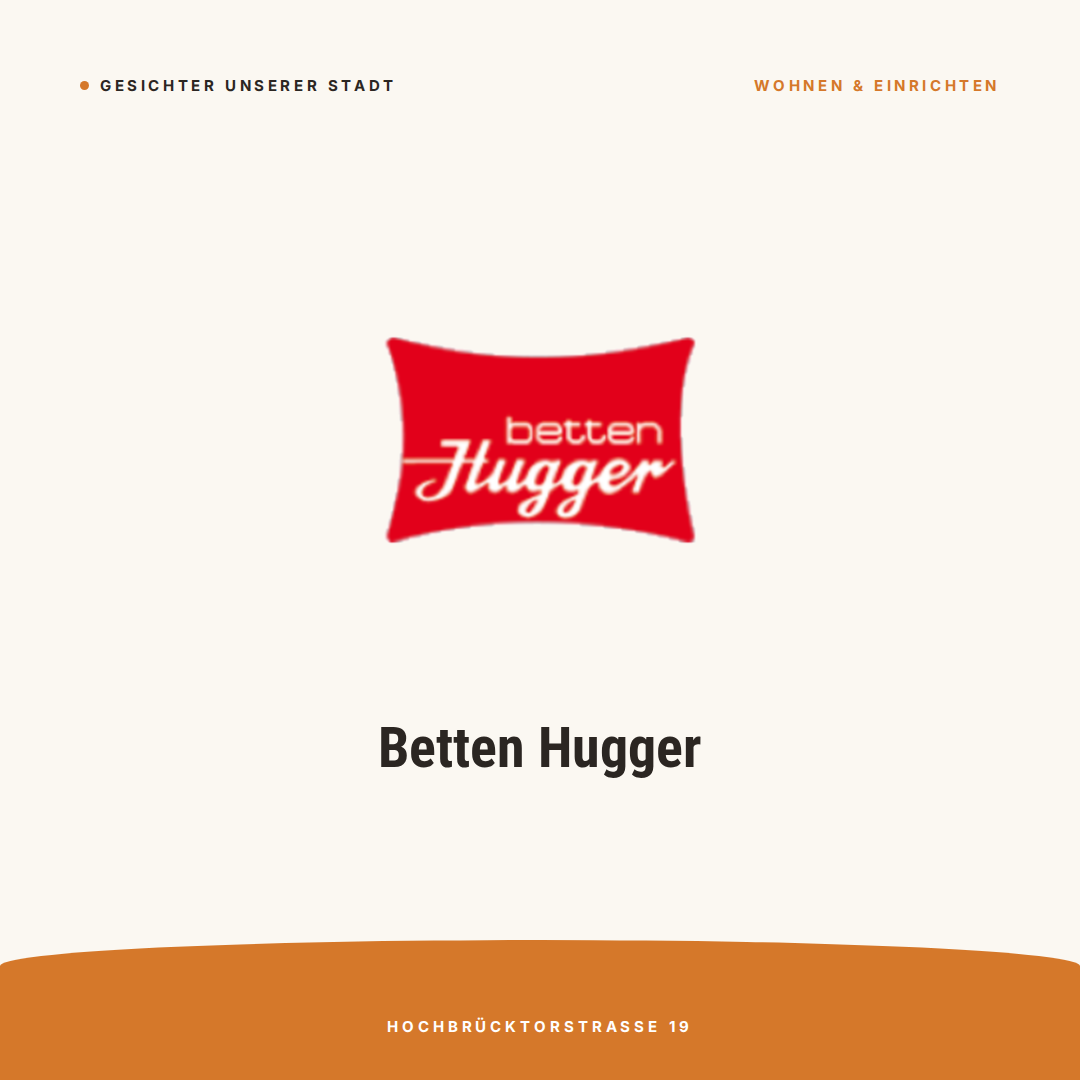
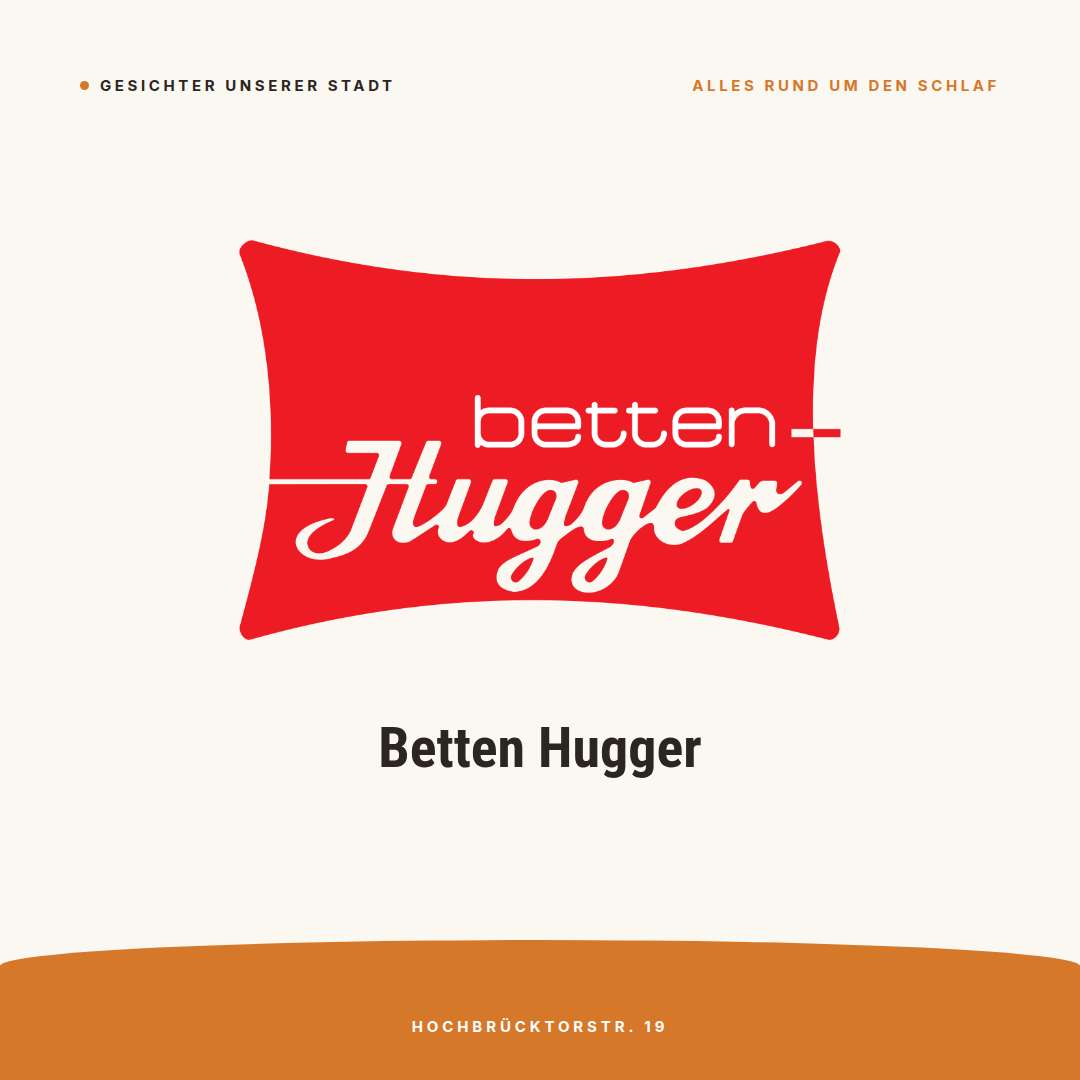
Take in the first four business profiles
Snack Tempel and Betten Hugger supplied logos, so their tiles are
rebuilt from the real files - the Betten Hugger PDF is a letterhead, so
the pillow mark is lifted out of it and the address block beside it left
behind, since the address already sits in the arc below.

Haarstudio Ambiente and Ralf Graner Photodesign gave everything but the
logo file, so their tiles keep the mark lifted from the old graphic.

Descriptions and websites are stored now even though nothing renders
them yet; contact names, mail addresses and phone numbers stay out, the
repository is public.

Claude-Session: https://claude.ai/code/session_011k2AAdyFJhvbu85riK4Cz8

diff --git a/index.html b/index.html
@@ -249,16 +249,19 @@
           <img src="posts/beach0741.png" alt="Gesichter unserer Stadt: beach0741" loading="lazy" width="1080" height="1080" />
           <figcaption>beach0741</figcaption>
         </figure>
-        <figure class="post rv">
-          <img src="posts/bernhard-merz-immobilien-gmbh.png" alt="Gesichter unserer Stadt: Bernhard Merz Immobilien GmbH" loading="lazy" width="1080" height="1080" />
+        <figure class="post post--link rv">
+          <a class="post__link" href="https://www.instagram.com/merzimmobilien_rottweil/"
+             target="_blank" rel="noopener" aria-label="Bernhard Merz Immobilien GmbH auf Instagram"><img src="posts/bernhard-merz-immobilien-gmbh.png" alt="Gesichter unserer Stadt: Bernhard Merz Immobilien GmbH" loading="lazy" width="1080" height="1080" /></a>
           <figcaption>Bernhard Merz Immobilien GmbH</figcaption>
         </figure>
-        <figure class="post rv">
-          <img src="posts/betten-hugger.png" alt="Gesichter unserer Stadt: Betten Hugger" loading="lazy" width="1080" height="1080" />
+        <figure class="post post--link rv">
+          <a class="post__link" href="https://www.instagram.com/bettenhugger/"
+             target="_blank" rel="noopener" aria-label="Betten Hugger auf Instagram"><img src="posts/betten-hugger.png" alt="Gesichter unserer Stadt: Betten Hugger" loading="lazy" width="1080" height="1080" /></a>
           <figcaption>Betten Hugger</figcaption>
         </figure>
-        <figure class="post rv">
-          <img src="posts/borrelli-sapori-italiani.png" alt="Gesichter unserer Stadt: Borrelli Sapori Italiani" loading="lazy" width="1080" height="1080" />
+        <figure class="post post--link rv">
+          <a class="post__link" href="https://www.instagram.com/borrelli_sapori_italiani/"
+             target="_blank" rel="noopener" aria-label="Borrelli Sapori Italiani auf Instagram"><img src="posts/borrelli-sapori-italiani.png" alt="Gesichter unserer Stadt: Borrelli Sapori Italiani" loading="lazy" width="1080" height="1080" /></a>
           <figcaption>Borrelli Sapori Italiani</figcaption>
         </figure>
         <figure class="post rv">
@@ -305,12 +308,14 @@
           <img src="posts/goldener-apfel.png" alt="Gesichter unserer Stadt: Goldener Apfel" loading="lazy" width="1080" height="1080" />
           <figcaption>Goldener Apfel</figcaption>
         </figure>
-        <figure class="post rv">
-          <img src="posts/goekhan-boztepe-beyhan-kiasif-gbr.png" alt="Gesichter unserer Stadt: Gökhan Boztepe &amp; Beyhan Kiasif GbR" loading="lazy" width="1080" height="1080" />
+        <figure class="post post--link rv">
+          <a class="post__link" href="https://www.instagram.com/snacktempel/"
+             target="_blank" rel="noopener" aria-label="Gökhan Boztepe &amp; Beyhan Kiasif GbR auf Instagram"><img src="posts/goekhan-boztepe-beyhan-kiasif-gbr.png" alt="Gesichter unserer Stadt: Gökhan Boztepe &amp; Beyhan Kiasif GbR" loading="lazy" width="1080" height="1080" /></a>
           <figcaption>Gökhan Boztepe &amp; Beyhan Kiasif GbR</figcaption>
         </figure>
-        <figure class="post rv">
-          <img src="posts/haarstudio-ambiente.png" alt="Gesichter unserer Stadt: Haarstudio Ambiente" loading="lazy" width="1080" height="1080" />
+        <figure class="post post--link rv">
+          <a class="post__link" href="https://www.instagram.com/haarstudioambiente/"
+             target="_blank" rel="noopener" aria-label="Haarstudio Ambiente auf Instagram"><img src="posts/haarstudio-ambiente.png" alt="Gesichter unserer Stadt: Haarstudio Ambiente" loading="lazy" width="1080" height="1080" /></a>
           <figcaption>Haarstudio Ambiente</figcaption>
         </figure>
         <figure class="post rv">
@@ -353,8 +358,9 @@
           <img src="posts/planet-cars.png" alt="Gesichter unserer Stadt: Planet-Cars" loading="lazy" width="1080" height="1080" />
           <figcaption>Planet-Cars</figcaption>
         </figure>
-        <figure class="post rv">
-          <img src="posts/ralf-graner-photodesign.png" alt="Gesichter unserer Stadt: Ralf Graner Photodesign" loading="lazy" width="1080" height="1080" />
+        <figure class="post post--link rv">
+          <a class="post__link" href="https://www.instagram.com/ralfgraner_photodesign/"
+             target="_blank" rel="noopener" aria-label="Ralf Graner Photodesign auf Instagram"><img src="posts/ralf-graner-photodesign.png" alt="Gesichter unserer Stadt: Ralf Graner Photodesign" loading="lazy" width="1080" height="1080" /></a>
           <figcaption>Ralf Graner Photodesign</figcaption>
         </figure>
         <figure class="post rv">
